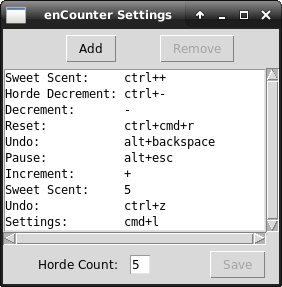
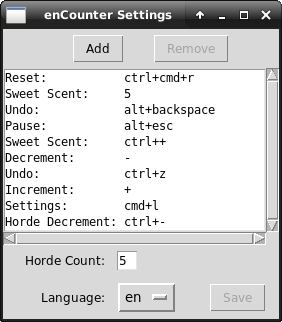
updated README.md

Changed region(s): [[0.0, 0.0, 0.9929, 1.0], [0.6809, 0.0279, 0.7376, 0.0557], [0.9929, 0.0, 1.0, 0.0279]]

diff --git a/README.md b/README.md
@@ -8,7 +8,7 @@ enCounter is an extremely lightweight and cross-platform Python3 script that cre
 This script works a bit differently than the existing ones, the main difference is that this does not use any sort of screen capturing to count the encounters!  
 Instead, this lets you configure what key you have set to activate Sweet Scent and how many Pokemon are in each horde (you can set this to 1 for single shunting).  
 
-There are also manual increment, decrement, horde increment, horde decrement, and undo buttons (and keybinds) for fine tuning.  
+There are also manual increment, decrement, horde increment (sweet scent), horde decrement, and undo buttons (and keybinds) for fine tuning.  
 
 You can undo your last 50 actions. This includes resetting.  
 
@@ -17,19 +17,19 @@ You can pause the counter, disabling all key and button input, except for unpaus
 ## Keybinds
 
 Default:  
+* Sweet Scent: `Unbound`
 * Single Increment: `Ctrl+'+'` or `Ctrl+'='`
-* Increment By Horde Quantity: `Ctrl+'*'` or `Ctrl+8`
 * Single Decrement: `Ctrl+'-'`
 * Decrement By Horde Quantity: `Ctrl+'/'`
-* Undo (Up To the Last 50 Actions): `Ctrl+Z`
+* Undo: `Ctrl+Z`
 * Pause/Unpause: `Alt+Esc`
-* Configure Sweet Scent Key and Horde Quantity: `Ctrl+Esc`
-* Configure Only Horde Quantity: `Ctrl+H`
+* Configuration Menu: `Ctrl+Esc`
+* Reset Count: `Unbound`
 
 All of these bindings can be held to repeat the task.  
 Holding your Sweet Scent key will *not* repeatedly increment!  
 
-All of these commands (and more) can now be bound to whatever key combos you like in the interactive GUI!
+All of these commands can now be bound to whatever key combos you like in the interactive configuration menu!
 
 You can click and drag anywhere on the window to move it.  
 The script will remember where you moved it to the next time you open it.
@@ -40,23 +40,11 @@ Current translations:
 * Chinese (cn) by [TheKingOfGlory](https://github.com/TheKingOfGlory)
 
 Language specs can be added using the built-in `gettext` system.  
+The `./locales/base.pot` file is a template file you can use to create new translations in the format of `./locales/{language}/LC_MESSAGES/base.po`, then run the `msgfmt` tool to compile the `./locales/{language}/LC_MESSAGES/base.mo` file, where `{language}` is the two letter abbreviation for the spec.  
 
 When launching `counter.py` it attempts to select the language defined by your system, if a language spec exists for that language, it will be used. Otherwise it will fallback to English.  
 
-If the automatic language detection doesn't work you can manually set the language in the generated `encounters.py` file:  
-
-If you have the `encounters.py` file skip to step 5
-
-1. Run `counter.py`
-2. Press your sweet scent button, followed by a number.
-3. Press the `+` button on the app.
-4. Press the `X` to close the app.
-5. Open the `encounters.py` file with any text editor (such as notepad)
-6. Locate the line that says `langSet = None` and change it to `langSet = ['cn']`
-7. Save and close the file.
-8. Run `counter.py`
-
-Now the app should be in Chinese! For other languages, just change the `cn` to the corresponding language abbreviation!
+If the automatic language detection doesn't work you can press the settings button, `⚙`, and select your preferred language.
 
 ## Themes
 Now the `encounters.py` file supports customized color options!
